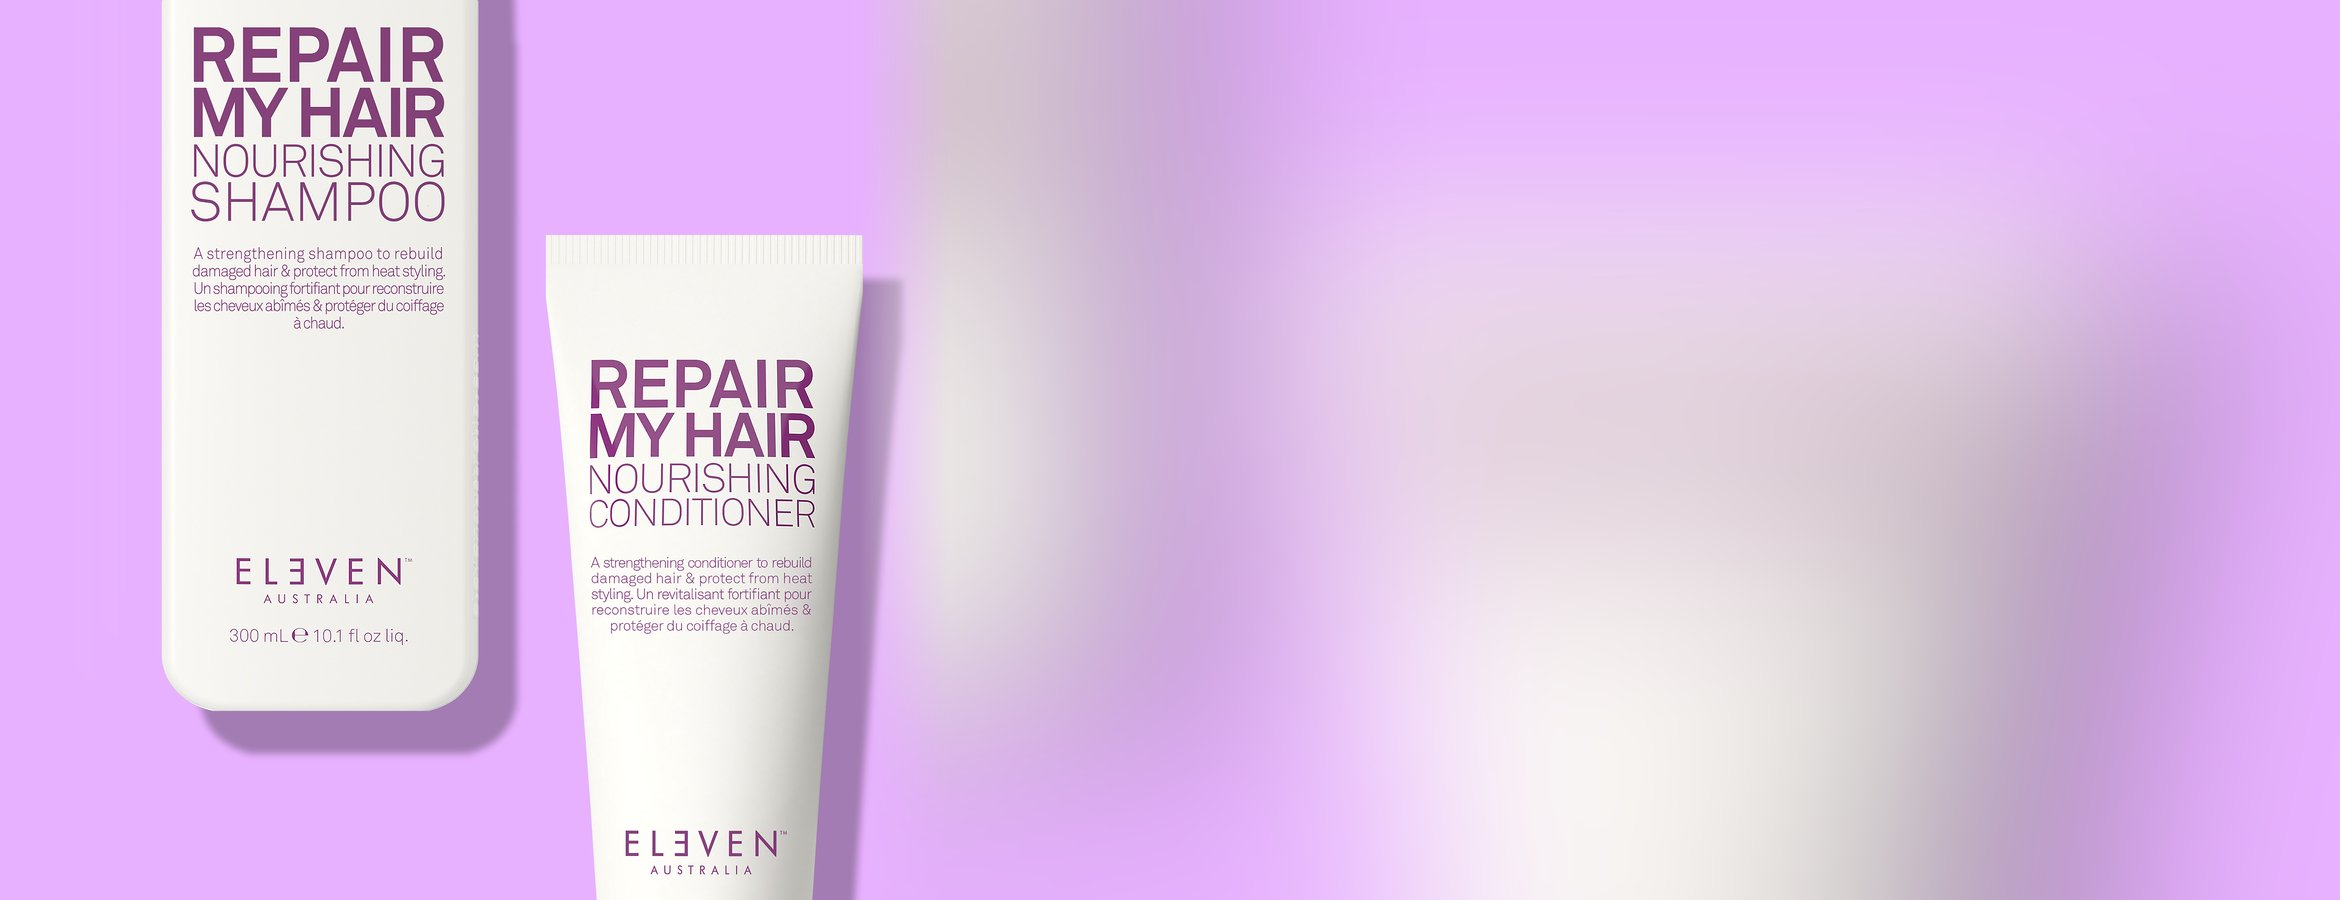
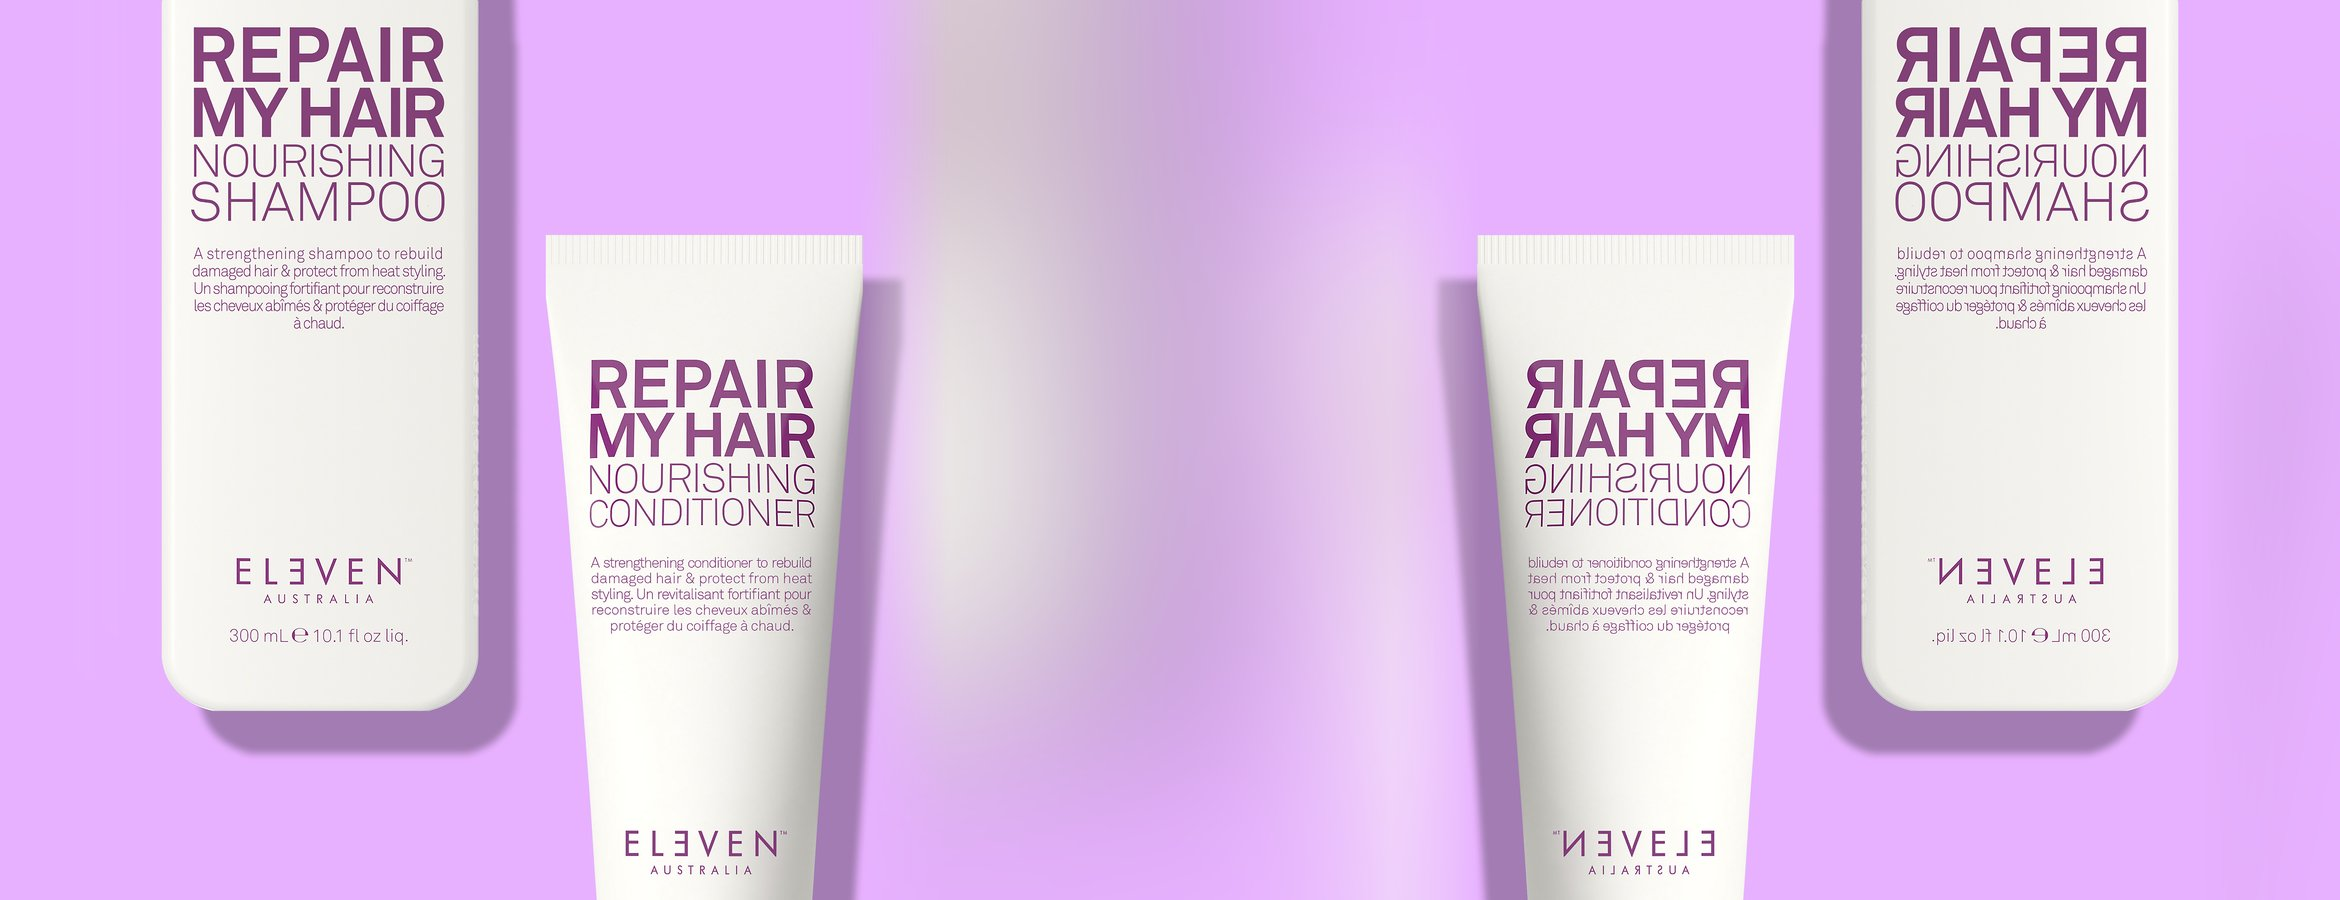
Show the real photo on both sides, blur only in the true middle
Mirrors the real (sharp) crop onto the right edge as well as the left
(the two wide-enough-already photos, Color Wow and K18, keep a single
side since there's no room for two copies plus a usable blurred gap).
Centers the banner position again now that the file itself is
symmetric — "left center" was only needed while the real content sat
off-centre inside the file.

Eleven Australia Colour specifically also gets its own current brand
logo badged onto the image, and its middle blend switched from a
whole-image blur (which was muddying the blue sky and warm skin tone
into one blotch) to a per-row colour collapse — keeps the photo's own
blue-top-to-warm-bottom gradient clean instead of smearing it.

Changed region(s): [[0.5927, 0.0, 0.9671, 1.0]]

diff --git a/src/lib/ui.jsx b/src/lib/ui.jsx
@@ -620,27 +620,25 @@ export function DoodlePalette({ size = 19, active }) {
 export function brandHeaderPhoto(name) {
   const n = (name || "").toLowerCase();
   const isColour = n.includes("colour") || n.includes("color") && !n.includes("color wow");
-  // bannerPosition is "left center" (not "center") everywhere — each of
-  // these files already has its own real photo content baked in near its
-  // left edge, with the rest extended/blurred to the right. Centering the
-  // whole file within an even wider stage would shift that real content
-  // back toward the middle, undoing it, so the banner anchors the file
-  // itself to the left instead.
+  // bannerPosition is plain "center" — each of these files now has its
+  // real photo content baked in on BOTH left and right edges (mirrored),
+  // with blur filling only the middle, so centering the whole file keeps
+  // it symmetric regardless of how much extra width the stage has.
   if (n.includes("kevin")) {
     return isColour
-      ? { src: "/brand-headers/kevinmurphy_colour.jpg", position: "center", bannerPosition: "left center" }
-      : { src: "/brand-headers/kevinmurphy2.jpg", position: "center", bannerPosition: "left center" };
+      ? { src: "/brand-headers/kevinmurphy_colour.jpg", position: "center", bannerPosition: "center" }
+      : { src: "/brand-headers/kevinmurphy2.jpg", position: "center", bannerPosition: "center" };
   }
   if (n.includes("eleven")) {
     return isColour
-      ? { src: "/brand-headers/eleven_colour.jpg", position: "center 15%", bannerPosition: "left center" }
-      : { src: "/brand-headers/eleven2.jpg", position: "center", bannerPosition: "left center" };
+      ? { src: "/brand-headers/eleven_colour.jpg", position: "center 15%", bannerPosition: "center" }
+      : { src: "/brand-headers/eleven2.jpg", position: "center", bannerPosition: "center" };
   }
-  if (n.includes("davines")) return { src: "/brand-headers/davines2.jpg", position: "center", bannerPosition: "left center" };
-  if (n.includes("aveda")) return { src: "/brand-headers/aveda2.jpg", position: "center", bannerPosition: "left center" };
-  if (n.includes("k18")) return { src: "/brand-headers/k18.jpg", position: "center", bannerPosition: "left center" };
-  if (n.includes("color wow")) return { src: "/brand-headers/colorwow2.jpg", position: "center", bannerPosition: "left center" };
-  if (n.includes("living proof")) return { src: "/brand-headers/livingproof.jpg", position: "center 10%", bannerPosition: "left center" };
+  if (n.includes("davines")) return { src: "/brand-headers/davines2.jpg", position: "center", bannerPosition: "center" };
+  if (n.includes("aveda")) return { src: "/brand-headers/aveda2.jpg", position: "center", bannerPosition: "center" };
+  if (n.includes("k18")) return { src: "/brand-headers/k18.jpg", position: "center", bannerPosition: "center" };
+  if (n.includes("color wow")) return { src: "/brand-headers/colorwow2.jpg", position: "center", bannerPosition: "center" };
+  if (n.includes("living proof")) return { src: "/brand-headers/livingproof.jpg", position: "center 10%", bannerPosition: "center" };
   return null;
 }
 
